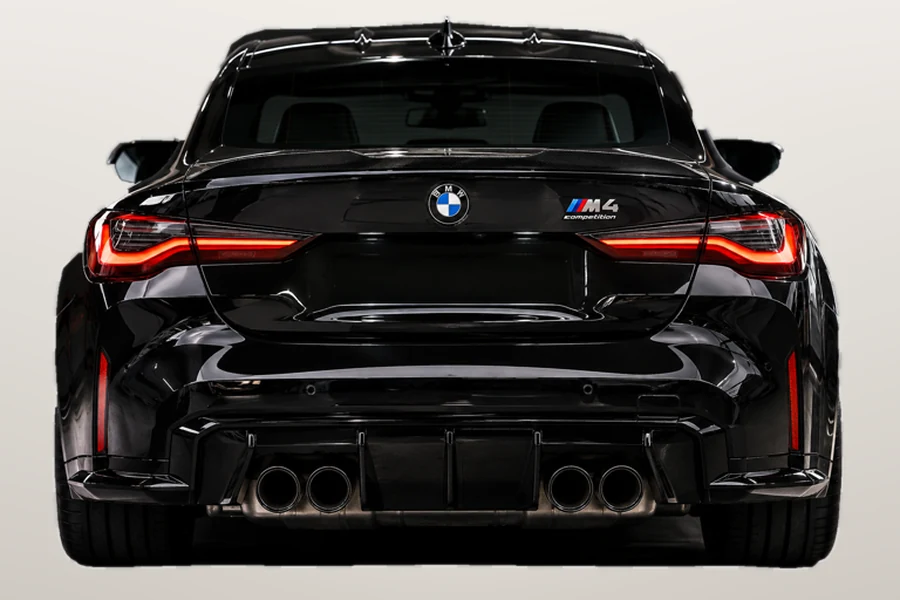
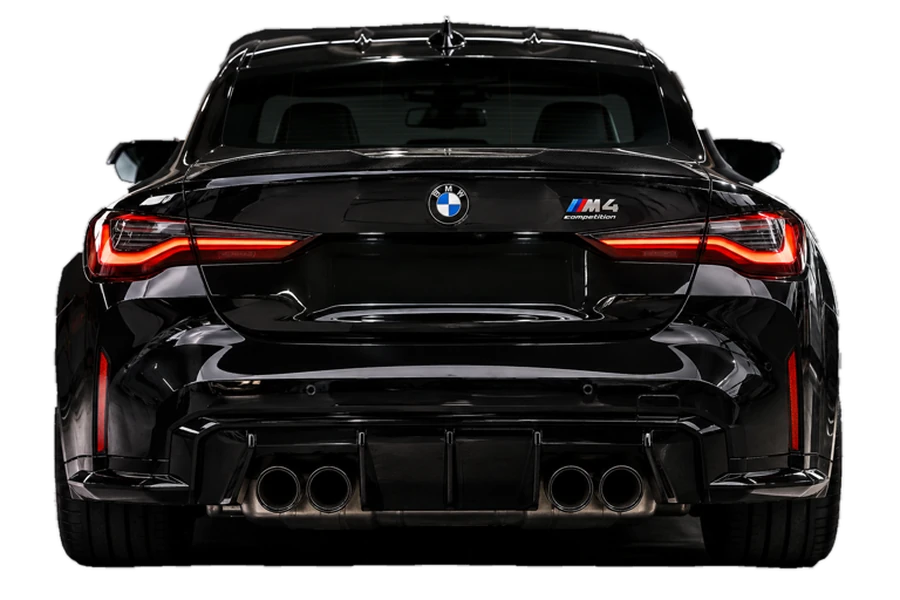
Gallery: cut-out cars, clickable Before/After, centred dots
The front and rear BMW files ship as real transparent cut-outs again, so
the car sits straight on the page instead of inside a picture box. The
stage is a fixed 3:2 so switching views no longer changes the page height.

Before/After are buttons that wipe the divider to each side and hold a
minimum tap target in both languages. The view dots moved under the image,
centred and enlarged. Removed the gold dot from the docked Book Now.

Changed region(s): [[0.0, 0.0, 1.0, 1.0], [0.4978, 0.03, 0.56, 0.06], [0.4356, 0.03, 0.4667, 0.06]]

diff --git a/index.html b/index.html
@@ -960,40 +960,49 @@ h2 { font-family:var(--serif); font-weight:500; text-wrap:balance; }
 /* a narrow matted frame rather than a wide slab — the client asked for the
    panel to take less width and read as something hung, not pasted on */
 .ba-frame {
-  margin: 0 auto;
-  max-width: 440px;
-  padding: 16px;
-  background: var(--bg-s);
-  border: 1px solid var(--bord);
-  box-shadow: var(--lift-3);
-  position: relative;
-}
-.ba-frame::after {
-  content: ""; position: absolute; inset: 8px; pointer-events: none;
-  border: 1px solid rgba(184,149,74,.34);
+  /* no mat, no border, no fillet: the evidence is the picture, and a frame
+     around it only makes it look like decoration */
+  margin: 0 auto; max-width: 520px; position: relative;
 }
 /* gallery arrows */
 .ba-nav {
   position:absolute; top:50%; translate:0 -50%; z-index:5;
-  width:38px; height:38px; display:flex; align-items:center; justify-content:center;
-  background:rgba(26,18,16,.52); color:#FBF8F4; border:1px solid rgba(251,248,244,.34);
-  font-size:19px; line-height:1; cursor:pointer;
-  backdrop-filter:blur(5px); -webkit-backdrop-filter:blur(5px);
-  transition:background .2s, border-color .2s, opacity .2s; opacity:.85;
+  width:40px; height:40px; border-radius:50%;
+  display:flex; align-items:center; justify-content:center;
+  background:rgba(26,18,16,.42); color:#FBF8F4; border:1px solid rgba(251,248,244,.42);
+  font-size:18px; line-height:1; cursor:pointer;
+  backdrop-filter:blur(6px); -webkit-backdrop-filter:blur(6px);
+  transition:background .25s, border-color .25s, opacity .25s; opacity:0;
 }
-.ba-nav:hover { background:var(--burg); border-color:var(--burg); opacity:1; }
+.ba:hover .ba-nav, .ba-nav:focus-visible { opacity:1; }
+@media (hover:none) { .ba-nav { opacity:.9; } }
+.ba-nav:hover { background:var(--burg); border-color:var(--burg); }
 .ba-nav:focus-visible { outline:2px solid var(--gold); outline-offset:2px; }
 .ba-prev { left:10px; } .ba-next { right:10px; }
 .ba-cap {
-  display:flex; align-items:center; justify-content:space-between; gap:12px;
-  margin-top:14px; font-size:10px; letter-spacing:.16em; text-transform:uppercase; color:var(--fg2);
+  display:flex; flex-direction:column; align-items:center; gap:14px;
+  margin-top:18px; padding-bottom:14px; border-bottom:1px solid var(--bord);
+  font-size:10px; letter-spacing:.16em; text-transform:uppercase; color:var(--fg2);
+  text-align:center;
 }
-.ba-dots { display:flex; gap:6px; }
+/* the reason the picture is on the page, said plainly */
+.ba-trust {
+  display:flex; align-items:flex-start; gap:10px;
+  margin:12px 0 0; font-size:12.5px; line-height:1.6; color:var(--fg2);
+}
+.ba-trust::before {
+  content:""; flex-shrink:0; width:6px; height:6px; margin-top:7px;
+  background:var(--gold); transform:rotate(45deg);
+}
+.ba-dots { display:flex; gap:10px; align-items:center; }
 .ba-dots button {
-  width:6px; height:6px; padding:0; border:none; cursor:pointer;
-  background:var(--bord); transition:background .25s, transform .25s;
+  width:9px; height:9px; padding:0; border:1px solid rgba(86,52,40,.34); cursor:pointer;
+  background:transparent; border-radius:50%;
+  transition:background .25s, border-color .25s, transform .25s;
 }
-.ba-dots button.on { background:var(--gold-d); transform:scale(1.5); }
+.ba-dots button:hover { border-color:var(--gold-d); }
+.ba-dots button.on { background:var(--gold-d); border-color:var(--gold-d); transform:scale(1.25); }
+.ba-dots button:focus-visible { outline:2px solid var(--gold); outline-offset:2px; }
 @media(max-width:540px){ .ba-nav { width:32px; height:32px; font-size:16px; } }
 .ba {
   --x: 100%;
@@ -1002,9 +1011,12 @@ h2 { font-family:var(--serif); font-weight:500; text-wrap:balance; }
   width: 100%;
   overflow: hidden;
   touch-action: pan-y;
-  background: var(--bg-s2);
+  background: transparent;
+  /* one fixed stage so switching views never jogs the layout, and the cut-out
+     cars sit straight on the page instead of inside a picture box */
+  aspect-ratio: 3 / 2;
 }
-.ba-img { display: block; width: 100%; height: auto; }
+.ba-img { display: block; width: 100%; height: 100%; object-fit: contain; }
 /* the dusty plate sits on top, revealed to the left of the divider */
 .ba-before { position: absolute; inset: 0; clip-path: inset(0 calc(100% - var(--x)) 0 0); }
 .ba-line {
@@ -1030,12 +1042,19 @@ h2 { font-family:var(--serif); font-weight:500; text-wrap:balance; }
   scale: 1.06;
 }
 .ba-lbl {
-  position: absolute; bottom: 16px; z-index: 3; pointer-events: none;
-  font-size: 10px; letter-spacing: .22em; text-transform: uppercase;
-  padding: 7px 13px;
-  background: rgba(26,18,16,.76); color: #FBF7F1;
-  transition: opacity .3s;
+  position: absolute; bottom: 14px; z-index: 6; cursor: pointer;
+  font-family: var(--sans); font-size: 10px; font-weight: 500;
+  letter-spacing: .18em; text-transform: uppercase;
+  display: inline-flex; align-items: center; justify-content: center;
+  min-height: 38px; min-width: 86px;
+  padding: 9px 16px; border: 1px solid rgba(26,18,16,.16);
+  background: rgba(253,251,247,.94); color: var(--fg);
+  box-shadow: 0 2px 10px rgba(60,38,30,.16);
+  transition: background .22s, color .22s, border-color .22s;
 }
+.ba-lbl:hover { background: var(--burg); color: #fff; border-color: var(--burg); }
+.ba-lbl.on { background: var(--burg); color: #fff; border-color: var(--burg); }
+.ba-lbl:focus-visible { outline: 2px solid var(--gold); outline-offset: 2px; }
 .ba-lbl-b { left: 14px; }
 .ba-lbl-a { right: 14px; }
 /* a full-bleed range input is the drag surface: pointer, touch and keyboard for free */
@@ -1047,10 +1066,10 @@ h2 { font-family:var(--serif); font-weight:500; text-wrap:balance; }
 }
 .ba-range::-webkit-slider-thumb { -webkit-appearance: none; width: 50px; height: 100%; }
 .ba-range::-moz-range-thumb { width: 50px; height: 100%; border: 0; border-radius: 0; }
-.ba-range:focus-visible { outline: 2px solid var(--burg); outline-offset: -3px; opacity: 1; }
+.ba-range:focus-visible { outline: 2px solid var(--gold); outline-offset: 3px; opacity: 1; }
 @media (max-width: 540px) {
   .ba-grip { width: 38px; height: 38px; }
-  .ba-lbl { bottom: 10px; font-size: 8.5px; padding: 6px 10px; letter-spacing: .16em; }
+  .ba-lbl { bottom: 10px; font-size: 9px; padding: 8px 12px; letter-spacing: .16em; min-height: 36px; min-width: 76px; }
   .ba-lbl-b { left: 10px; } .ba-lbl-a { right: 10px; }
 }
 
@@ -1166,7 +1185,6 @@ h2 { font-family:var(--serif); font-weight:500; text-wrap:balance; }
   letter-spacing:.16em; text-transform:uppercase; box-shadow:var(--lift-2); }
 .cta-dock.on { transform:translate(0,0); }
 .cta-dock:hover { background:var(--burg-h); box-shadow:var(--lift-3); }
-.cta-dock::after { content:""; width:5px; height:5px; border-radius:50%; background:var(--gold); }
 @media(max-width:860px){
   .cta-dock { right:auto; left:50%; top:auto; bottom:0; width:min(420px,calc(100% - 32px)); justify-content:center;
     transform:translate(-50%,150%); margin-bottom:max(14px,env(safe-area-inset-bottom,0px)); padding:16px; }
@@ -1253,8 +1271,8 @@ h2 { font-family:var(--serif); font-weight:500; text-wrap:balance; }
         <div class="ba" id="ba">
           <img class="ba-img" id="baAfter" src="g1-after.webp" alt="A BMW M4 after an Overa detail — gloss restored" width="900" height="600" loading="lazy" decoding="async">
           <img class="ba-img ba-before" id="baBefore" src="g1-before.webp" alt="The same car before: paint dulled by dust and road film" width="900" height="600" loading="lazy" decoding="async">
-          <span class="ba-lbl ba-lbl-b" data-i18n="ba.before">Before</span>
-          <span class="ba-lbl ba-lbl-a" data-i18n="ba.after">After</span>
+          <button type="button" class="ba-lbl ba-lbl-b" id="baToB" data-i18n="ba.before">Before</button>
+          <button type="button" class="ba-lbl ba-lbl-a" id="baToA" data-i18n="ba.after">After</button>
           <span class="ba-line"><span class="ba-grip"></span></span>
           <input class="ba-range" id="baRange" type="range" min="4" max="96" value="96" step="0.1" aria-label="Drag to compare before and after">
           <button type="button" class="ba-nav ba-prev" id="baPrev" aria-label="Previous">&#8249;</button>
@@ -1262,6 +1280,7 @@ h2 { font-family:var(--serif); font-weight:500; text-wrap:balance; }
         </div>
         <figcaption class="ba-cap"><span id="baCap"></span>
           <span class="ba-dots" id="baDots"></span></figcaption>
+        <p class="ba-trust"><span data-i18n="ba.trust">Every car is photographed before and after. Drag the pad to compare.</span></p>
         </figure>
       </div>
       <div class="concept-content rv d2">
@@ -1684,6 +1703,7 @@ const T = {
     'btn.packages':'See Packages',
     'btn.bookpkg':'Book This Package',
     'pkg.popular':'Most Chosen',
+    'ba.trust':'Every car is photographed before and after. Drag the pad to compare.',
     'ba.cap.front':'Front · paint & glass','ba.cap.back':'Rear · paint & glass',
     'ba.cap.wheel':'Wheel & tyre','ba.cap.cabin':'Cabin · seats, dash & wheel',
     'ba.before':'Before',
@@ -1928,6 +1948,7 @@ const T = {
     'btn.packages':'تصفّح الباقات',
     'btn.bookpkg':'احجز هذه الباقة',
     'pkg.popular':'الأكثر طلباً',
+    'ba.trust':'نصوّر كل سيارة قبل العمل وبعده. اسحب الإسفنجة للمقارنة.',
     'ba.cap.front':'الأمام · الطلاء والزجاج','ba.cap.back':'الخلف · الطلاء والزجاج',
     'ba.cap.wheel':'الجنط والإطار','ba.cap.cabin':'المقصورة · المقاعد والتابلوه والمقود',
     'ba.before':'قبل',
@@ -2433,6 +2454,28 @@ if(ba&&baR){
     [...baDots.children].forEach((d,j)=>d.classList.toggle('on',j===baIdx));
     if(replay){ baR.value=96; setX(96); clearTimeout(show._t); show._t=setTimeout(()=>play(),180); }
   }
+  function wipeTo(target){
+    const from=parseFloat(baR.value), t0=performance.now(), dur=520;
+    let done=false;
+    const end=()=>{ if(!done){ done=true; baR.value=target; setX(target); markSide(); } };
+    const tick=now=>{
+      if(done) return;
+      const p=Math.min(1,(now-t0)/dur);
+      if(p>=1){ end(); return; }
+      const e=1-Math.pow(1-p,3);
+      const v=from+(target-from)*e; baR.value=v; setX(v);
+      requestAnimationFrame(tick);
+    };
+    setTimeout(end,dur+600); requestAnimationFrame(tick);
+  }
+  function markSide(){
+    const v=parseFloat(baR.value);
+    document.getElementById('baToB').classList.toggle('on', v>=90);
+    document.getElementById('baToA').classList.toggle('on', v<=10);
+  }
+  document.getElementById('baToB').addEventListener('click',()=>wipeTo(96));
+  document.getElementById('baToA').addEventListener('click',()=>wipeTo(4));
+  baR.addEventListener('input',markSide);
   document.getElementById('baPrev').addEventListener('click',()=>show(baIdx-1,true));
   document.getElementById('baNext').addEventListener('click',()=>show(baIdx+1,true));
   ba.addEventListener('keydown',e=>{
